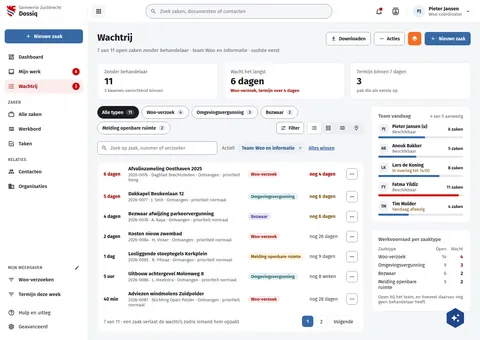
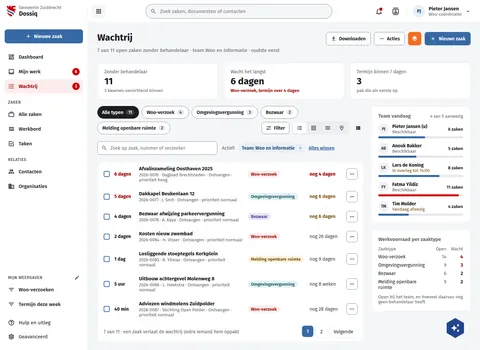
fix(screens): DqTeamwachtrij rows draw their selection box, the switch its More views
Users keep features: the team queue's rows can be selected (the bulk band
appears once one is), and the case table sits under the view switch's More
views menu (Ruben 23 Oct: users keep features). The board draws a box at the
start of each row and the More views button after the four segments.
Height 1020 -> 1050; screens.json for this board only.

Assisted-by: ClaudeCode:claude-opus-5-5

diff --git a/preview/screens/boards/DqTeamwachtrij.html b/preview/screens/boards/DqTeamwachtrij.html
@@ -202,6 +202,7 @@ a{color:var(--sc-primary, #3669a5)}a:hover{color:var(--sc-primary-deep, #234a78)
               <button type="button" aria-pressed="false" aria-label="Kaart" title="Kaart" style="display: inline-flex; align-items: center; justify-content: center; width: 40px; height: 34px; border: 0; border-radius: 6px; cursor: pointer; background: transparent; color: var(--sc-work-text, #3d4047);"><svg width="18" height="18" viewbox="0 0 24 24" fill="currentColor"><path d="M12,6.5A2.5,2.5 0 0,1 14.5,9A2.5,2.5 0 0,1 12,11.5A2.5,2.5 0 0,1 9.5,9A2.5,2.5 0 0,1 12,6.5M12,2A7,7 0 0,1 19,9C19,14.25 12,22 12,22C12,22 5,14.25 5,9A7,7 0 0,1 12,2M12,4A5,5 0 0,0 7,9C7,10 7,12 12,18.71C17,12 17,10 17,9A5,5 0 0,0 12,4Z"></path></svg></button>
             
           </div>
+          <button type="button" aria-label="Meer weergaven" title="Meer weergaven" aria-expanded="false" style="width: 36px; height: 36px; display: inline-flex; align-items: center; justify-content: center; border: 0; border-radius: 8px; background: transparent; color: var(--sc-work-ink, #1b1c1d)"><svg width="18" height="18" viewbox="0 0 24 24" fill="currentColor" aria-hidden="true"><path d="M9,5V9H21V5M9,19H21V15H9M9,14H21V10H9M4,9H8V5H4M4,19H8V15H4M4,14H8V10H4V14Z"></path></svg></button>
         </div>
         <div style="display: flex; flex-wrap: wrap; align-items: center; gap: 8px; font-size: 14px">
           <form role="search" style="flex: 1 1 260px; max-width: 360px; position: relative">
@@ -216,6 +217,7 @@ a{color:var(--sc-primary, #3669a5)}a:hover{color:var(--sc-primary-deep, #234a78)
           <section aria-labelledby="wq-lijst" style="min-width: 0; background: #ffffff; border: 1px solid var(--sc-work-line, #e4e6ea); border-radius: 12px; display: flex; flex-direction: column">
             
               <div style="display: flex; flex-wrap: wrap; align-items: center; gap: 8px 14px; padding: 12px 18px; border-bottom: 1px solid var(--sc-work-soft, #eef0f3)">
+                <span aria-label="Selecteren" style="flex: none; width: 18px; height: 18px; box-sizing: border-box; border: 2px solid var(--sc-primary, #3669a5); border-radius: 4px; background: #ffffff"></span>
                 <span style="flex: none; width: 60px; font-size: 14px; font-weight: 700; color: var(--sc-accent-deep, #a30000);">6 dagen</span>
                 <a href="DqZaak.html" style="flex: 1 1 200px; min-width: 0; display: flex; flex-direction: column; gap: 2px; color: var(--sc-work-ink, #1b1c1d); text-decoration: none"><strong style="font-size: 15px">Afvalinzameling Oosthaven 2025</strong><span style="font-size: 13px; color: var(--sc-work-muted, #5e6168)">2026-0076 · Dagblad Drechtsteden · Ontvangen · prioriteit hoog</span></a>
                 <span style="flex: 0 0 172px; display: flex"><span style="display: inline-block; padding: 3px 10px; border-radius: 12px; font-size: 13px; font-weight: 600; white-space: nowrap; background: #fcedec; color: var(--sc-accent-deep, #a30000)">Woo-verzoek</span></span>
@@ -224,6 +226,7 @@ a{color:var(--sc-primary, #3669a5)}a:hover{color:var(--sc-primary-deep, #234a78)
               </div>
             
               <div style="display: flex; flex-wrap: wrap; align-items: center; gap: 8px 14px; padding: 12px 18px; border-bottom: 1px solid var(--sc-work-soft, #eef0f3)">
+                <span aria-label="Selecteren" style="flex: none; width: 18px; height: 18px; box-sizing: border-box; border: 2px solid var(--sc-primary, #3669a5); border-radius: 4px; background: #ffffff"></span>
                 <span style="flex: none; width: 60px; font-size: 14px; font-weight: 700; color: var(--sc-accent-deep, #a30000);">5 dagen</span>
                 <a href="DqZaak.html" style="flex: 1 1 200px; min-width: 0; display: flex; flex-direction: column; gap: 2px; color: var(--sc-work-ink, #1b1c1d); text-decoration: none"><strong style="font-size: 15px">Dakkapel Beukenlaan 12</strong><span style="font-size: 13px; color: var(--sc-work-muted, #5e6168)">2026-0077 · J. Smit · Ontvangen · prioriteit normaal</span></a>
                 <span style="flex: 0 0 172px; display: flex"><span style="display: inline-block; padding: 3px 10px; border-radius: 12px; font-size: 13px; font-weight: 600; white-space: nowrap; background: #e3f1f3; color: #1d5e66">Omgevingsvergunning</span></span>
@@ -232,6 +235,7 @@ a{color:var(--sc-primary, #3669a5)}a:hover{color:var(--sc-primary-deep, #234a78)
               </div>
             
               <div style="display: flex; flex-wrap: wrap; align-items: center; gap: 8px 14px; padding: 12px 18px; border-bottom: 1px solid var(--sc-work-soft, #eef0f3)">
+                <span aria-label="Selecteren" style="flex: none; width: 18px; height: 18px; box-sizing: border-box; border: 2px solid var(--sc-primary, #3669a5); border-radius: 4px; background: #ffffff"></span>
                 <span style="flex: none; width: 60px; font-size: 14px; font-weight: 700; color: var(--sc-work-ink, #1b1c1d);">4 dagen</span>
                 <a href="DqZaak.html" style="flex: 1 1 200px; min-width: 0; display: flex; flex-direction: column; gap: 2px; color: var(--sc-work-ink, #1b1c1d); text-decoration: none"><strong style="font-size: 15px">Bezwaar afwijzing parkeervergunning</strong><span style="font-size: 13px; color: var(--sc-work-muted, #5e6168)">2026-0078 · A. Kaya · Ontvangen · prioriteit normaal</span></a>
                 <span style="flex: 0 0 172px; display: flex"><span style="display: inline-block; padding: 3px 10px; border-radius: 12px; font-size: 13px; font-weight: 600; white-space: nowrap; background: #e8e6f6; color: #4a3f8f">Bezwaar</span></span>
@@ -240,6 +244,7 @@ a{color:var(--sc-primary, #3669a5)}a:hover{color:var(--sc-primary-deep, #234a78)
               </div>
             
               <div style="display: flex; flex-wrap: wrap; align-items: center; gap: 8px 14px; padding: 12px 18px; border-bottom: 1px solid var(--sc-work-soft, #eef0f3)">
+                <span aria-label="Selecteren" style="flex: none; width: 18px; height: 18px; box-sizing: border-box; border: 2px solid var(--sc-primary, #3669a5); border-radius: 4px; background: #ffffff"></span>
                 <span style="flex: none; width: 60px; font-size: 14px; font-weight: 700; color: var(--sc-work-ink, #1b1c1d);">2 dagen</span>
                 <a href="DqZaak.html" style="flex: 1 1 200px; min-width: 0; display: flex; flex-direction: column; gap: 2px; color: var(--sc-work-ink, #1b1c1d); text-decoration: none"><strong style="font-size: 15px">Kosten nieuw zwembad</strong><span style="font-size: 13px; color: var(--sc-work-muted, #5e6168)">2026-0084 · H. Visser · Ontvangen · prioriteit normaal</span></a>
                 <span style="flex: 0 0 172px; display: flex"><span style="display: inline-block; padding: 3px 10px; border-radius: 12px; font-size: 13px; font-weight: 600; white-space: nowrap; background: #fcedec; color: var(--sc-accent-deep, #a30000)">Woo-verzoek</span></span>
@@ -248,6 +253,7 @@ a{color:var(--sc-primary, #3669a5)}a:hover{color:var(--sc-primary-deep, #234a78)
               </div>
             
               <div style="display: flex; flex-wrap: wrap; align-items: center; gap: 8px 14px; padding: 12px 18px; border-bottom: 1px solid var(--sc-work-soft, #eef0f3)">
+                <span aria-label="Selecteren" style="flex: none; width: 18px; height: 18px; box-sizing: border-box; border: 2px solid var(--sc-primary, #3669a5); border-radius: 4px; background: #ffffff"></span>
                 <span style="flex: none; width: 60px; font-size: 14px; font-weight: 700; color: var(--sc-work-ink, #1b1c1d);">1 dag</span>
                 <a href="DqZaak.html" style="flex: 1 1 200px; min-width: 0; display: flex; flex-direction: column; gap: 2px; color: var(--sc-work-ink, #1b1c1d); text-decoration: none"><strong style="font-size: 15px">Losliggende stoeptegels Kerkplein</strong><span style="font-size: 13px; color: var(--sc-work-muted, #5e6168)">2026-0085 · R. Yilmaz · Ontvangen · prioriteit normaal</span></a>
                 <span style="flex: 0 0 172px; display: flex"><span style="display: inline-block; padding: 3px 10px; border-radius: 12px; font-size: 13px; font-weight: 600; white-space: nowrap; background: #fff4de; color: #7a4f00">Melding openbare ruimte</span></span>
@@ -256,6 +262,7 @@ a{color:var(--sc-primary, #3669a5)}a:hover{color:var(--sc-primary-deep, #234a78)
               </div>
             
               <div style="display: flex; flex-wrap: wrap; align-items: center; gap: 8px 14px; padding: 12px 18px; border-bottom: 1px solid var(--sc-work-soft, #eef0f3)">
+                <span aria-label="Selecteren" style="flex: none; width: 18px; height: 18px; box-sizing: border-box; border: 2px solid var(--sc-primary, #3669a5); border-radius: 4px; background: #ffffff"></span>
                 <span style="flex: none; width: 60px; font-size: 14px; font-weight: 700; color: var(--sc-work-ink, #1b1c1d);">5 uur</span>
                 <a href="DqZaak.html" style="flex: 1 1 200px; min-width: 0; display: flex; flex-direction: column; gap: 2px; color: var(--sc-work-ink, #1b1c1d); text-decoration: none"><strong style="font-size: 15px">Uitbouw achtergevel Molenweg 8</strong><span style="font-size: 13px; color: var(--sc-work-muted, #5e6168)">2026-0086 · L. Hoekstra · Ontvangen · prioriteit normaal</span></a>
                 <span style="flex: 0 0 172px; display: flex"><span style="display: inline-block; padding: 3px 10px; border-radius: 12px; font-size: 13px; font-weight: 600; white-space: nowrap; background: #e3f1f3; color: #1d5e66">Omgevingsvergunning</span></span>
@@ -264,6 +271,7 @@ a{color:var(--sc-primary, #3669a5)}a:hover{color:var(--sc-primary-deep, #234a78)
               </div>
             
               <div style="display: flex; flex-wrap: wrap; align-items: center; gap: 8px 14px; padding: 12px 18px; border-bottom: 1px solid var(--sc-work-soft, #eef0f3)">
+                <span aria-label="Selecteren" style="flex: none; width: 18px; height: 18px; box-sizing: border-box; border: 2px solid var(--sc-primary, #3669a5); border-radius: 4px; background: #ffffff"></span>
                 <span style="flex: none; width: 60px; font-size: 14px; font-weight: 700; color: var(--sc-work-ink, #1b1c1d);">40 min</span>
                 <a href="DqZaak.html" style="flex: 1 1 200px; min-width: 0; display: flex; flex-direction: column; gap: 2px; color: var(--sc-work-ink, #1b1c1d); text-decoration: none"><strong style="font-size: 15px">Adviezen windmolens Zuidpolder</strong><span style="font-size: 13px; color: var(--sc-work-muted, #5e6168)">2026-0087 · Stichting Open Polder · Ontvangen · prioriteit normaal</span></a>
                 <span style="flex: 0 0 172px; display: flex"><span style="display: inline-block; padding: 3px 10px; border-radius: 12px; font-size: 13px; font-weight: 600; white-space: nowrap; background: #fcedec; color: var(--sc-accent-deep, #a30000)">Woo-verzoek</span></span>

diff --git a/screens-src/zuiddrecht/DqTeamwachtrij.dc.html b/screens-src/zuiddrecht/DqTeamwachtrij.dc.html
@@ -58,6 +58,7 @@ a{color:#3669a5}a:hover{color:#234a78}
               <button type="button" aria-pressed="{{ m.pressed }}" aria-label="{{ m.label }}" title="{{ m.label }}" style="{{ m.style }}"><svg width="18" height="18" viewBox="0 0 24 24" fill="currentColor"><path d="{{ m.icon }}"></path></svg></button>
             </sc-for>
           </div>
+          <button type="button" aria-label="Meer weergaven" title="Meer weergaven" aria-expanded="false" style="width: 36px; height: 36px; display: inline-flex; align-items: center; justify-content: center; border: 0; border-radius: 8px; background: transparent; color: #1b1c1d"><svg width="18" height="18" viewBox="0 0 24 24" fill="currentColor" aria-hidden="true"><path d="M9,5V9H21V5M9,19H21V15H9M9,14H21V10H9M4,9H8V5H4M4,19H8V15H4M4,14H8V10H4V14Z"></path></svg></button>
         </div>
         <div style="display: flex; flex-wrap: wrap; align-items: center; gap: 8px; font-size: 14px">
           <form role="search" style="flex: 1 1 260px; max-width: 360px; position: relative">
@@ -72,6 +73,7 @@ a{color:#3669a5}a:hover{color:#234a78}
           <section aria-labelledby="wq-lijst" style="min-width: 0; background: #ffffff; border: 1px solid #e4e6ea; border-radius: 12px; display: flex; flex-direction: column">
             <sc-for list="{{ rows }}" as="r" hint-placeholder-count="7">
               <div style="display: flex; flex-wrap: wrap; align-items: center; gap: 8px 14px; padding: 12px 18px; border-bottom: 1px solid #eef0f3">
+                <span aria-label="Selecteren" style="flex: none; width: 18px; height: 18px; box-sizing: border-box; border: 2px solid #3669a5; border-radius: 4px; background: #ffffff"></span>
                 <span style="{{ r.waitStyle }}">{{ r.wait }}</span>
                 <a href="DqZaak.dc.html" style="flex: 1 1 200px; min-width: 0; display: flex; flex-direction: column; gap: 2px; color: #1b1c1d; text-decoration: none"><strong style="font-size: 15px">{{ r.title }}</strong><span style="font-size: 13px; color: #5e6168">{{ r.meta }}</span></a>
                 <span style="flex: 0 0 172px; display: flex"><span style="{{ r.typePill }}">{{ r.type }}</span></span>
